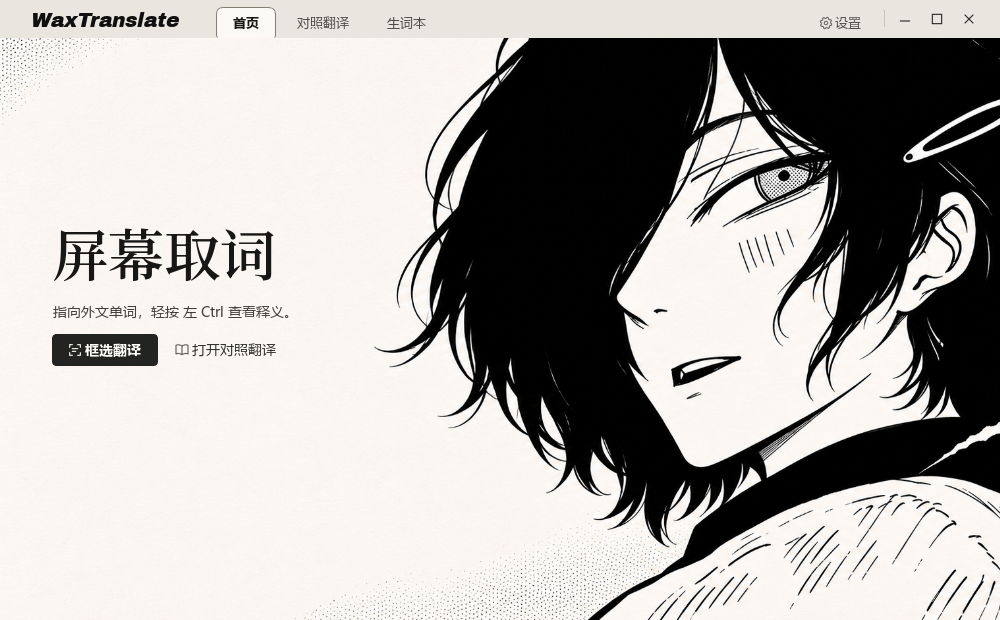
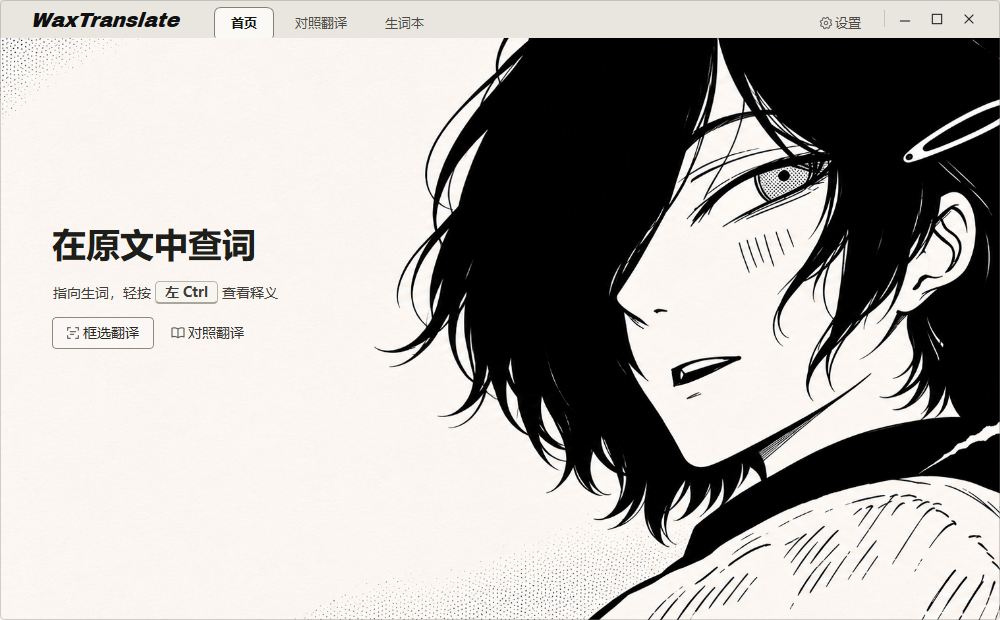
feat(windows): lead the home page with lookup activity and the current gesture (#65)

diff --git a/windows/home.py b/windows/home.py
@@ -2,7 +2,7 @@
 from PySide6.QtCore import QSize, Qt, QTimer, Signal
 from PySide6.QtGui import QColor, QFont, QLinearGradient, QPainter
 from PySide6.QtWidgets import (
-    QAbstractItemView, QAbstractScrollArea, QFrame, QHeaderView, QHBoxLayout, QLabel, QPushButton,
+    QAbstractItemView, QAbstractScrollArea, QFrame, QHeaderView, QHBoxLayout, QLabel, QLayout, QPushButton,
     QTableWidget, QTableWidgetItem, QVBoxLayout, QWidget,
 )
 
@@ -12,16 +12,16 @@ from theme import ui_icon
 
 HOME_STYLE = """
     QWidget#home {background:transparent;}
-    QLabel#coverTitle {font:600 56px 'Noto Serif SC','SimSun','Microsoft YaHei UI'; color:#171715;}
-    QLabel#totalLabel {color:#4d4a45; font-size:14px;}
-    QLabel#activity, QLabel#historyNotice, QLabel#pastActivity {color:#504d48; font-size:13px;}
-    QPushButton#useHint {background:transparent; color:#413f3b; border:1px solid transparent;
-        padding:2px 0; text-align:left; font-size:14px;}
+    QLabel#coverTitle {font:600 34px 'Microsoft YaHei UI'; color:#1d1d1a;}
+    QLabel#activity, QLabel#historyNotice {color:#504d48; font-size:13px;}
+    QPushButton#useHint {background:transparent; border:1px solid transparent; padding:0;}
     QPushButton#useHint:focus, QPushButton#useHint:hover {border-bottom:1px solid #79756e;}
-    QPushButton#region {background:#232321; color:#fffefa; border:1px solid #232321;
-        padding:6px 14px; border-radius:4px; font-size:14px; font-weight:600;}
-    QPushButton#region:hover {background:#40403b;}
-    QPushButton#region:focus {border:2px solid #827f74; padding:5px 13px;}
+    QPushButton#useHint QLabel {color:#403e39; font-size:14px;}
+    QLabel#shortcutKey {background:#f7f5ef; border:1px solid #b8b4aa; border-bottom:2px solid #aaa69c;
+        border-radius:4px; padding:1px 5px; font-weight:600;}
+    QPushButton#region {background:rgba(250,249,246,150); color:#292824; border:1px solid #8d897f;
+        padding:6px 12px; border-radius:4px; font-size:14px;}
+    QPushButton#region:hover, QPushButton#region:focus {background:#efede6; border-color:#494740;}
     QPushButton#readOriginal {background:transparent; color:#34332f; border:1px solid transparent;
         padding:6px 9px; border-radius:4px; font-size:14px;}
     QPushButton#readOriginal:hover, QPushButton#readOriginal:focus {border-color:#928e84;}
@@ -54,26 +54,19 @@ class HomePage(QWidget):
         self.page.setSpacing(0)
         self.page.addStretch(2)
         self.title = QLabel(objectName="coverTitle")
+        self.title.setTextFormat(Qt.RichText)
+        self.title.setWordWrap(True)
         self.page.addWidget(self.title)
-
-        self.metrics = QWidget()
-        metrics = QVBoxLayout(self.metrics)
-        metrics.setContentsMargins(0, 0, 0, 0)
-        metrics.setSpacing(0)
-        metrics.addWidget(QLabel("累计查词", objectName="totalLabel"))
-        self.total = QLabel()
-        self.total.setTextFormat(Qt.RichText)
-        metrics.addWidget(self.total)
         self.activity = QLabel(objectName="activity")
-        self.activity.setContentsMargins(0, 3, 0, 0)
-        metrics.addWidget(self.activity)
-        self.page.addWidget(self.metrics)
+        self.activity.setWordWrap(True)
+        self.activity.setContentsMargins(0, 4, 0, 0)
+        self.page.addWidget(self.activity)
 
         self.sheet = QWidget()
         history = QVBoxLayout(self.sheet)
         history.setContentsMargins(0, 14, 0, 0)
         history.setSpacing(5)
-        history.addWidget(QLabel("最近查词", objectName="recentTitle"))
+        history.addWidget(QLabel("最近查过", objectName="recentTitle"))
         self.table = QTableWidget(0, 3, objectName="recentWords")
         self.table.setAccessibleName("最近查词，从新到旧")
         self.table.setHorizontalHeaderLabels(["词语", "释义", "语种"])
@@ -97,39 +90,45 @@ class HomePage(QWidget):
 
         self.notice = QLabel("正在读取查词记录…", objectName="historyNotice")
         self.page.addWidget(self.notice)
-        self.page.addSpacing(8)
+        self.page.addSpacing(12)
         self.instructions = QPushButton(objectName="useHint")
         self.instructions.setToolTip("更改取词键")
         self.instructions.setCursor(Qt.PointingHandCursor)
         self.instructions.clicked.connect(self.settings_requested)
+        hint = QHBoxLayout(self.instructions)
+        hint.setSizeConstraint(QLayout.SetFixedSize)
+        hint.setSpacing(4)
+        hint.setContentsMargins(1, 3, 1, 3)
+        self.hint_start = QLabel()
+        self.key = QLabel(objectName="shortcutKey")
+        self.hint_end = QLabel("查看释义")
+        for part in (self.hint_start, self.key, self.hint_end):
+            part.setAttribute(Qt.WA_TransparentForMouseEvents)
+            hint.addWidget(part)
         self.page.addWidget(self.instructions, 0, Qt.AlignLeft)
         self.page.addSpacing(10)
         actions = QHBoxLayout()
         actions.setSpacing(6)
-        self.region = QPushButton(ui_icon("region", "#fffefa"), "框选翻译", objectName="region")
+        self.region = QPushButton(ui_icon("region"), "框选翻译", objectName="region")
         self.region.setIconSize(QSize(16, 16))
         self.region.setCursor(Qt.PointingHandCursor)
         self.region.clicked.connect(self.region_requested)
         actions.addWidget(self.region)
-        self.reader = QPushButton(ui_icon("book"), "打开对照翻译", objectName="readOriginal")
+        self.reader = QPushButton(ui_icon("book"), "对照翻译", objectName="readOriginal")
         self.reader.setIconSize(QSize(16, 16))
         self.reader.setCursor(Qt.PointingHandCursor)
         self.reader.clicked.connect(self.reader_requested)
         actions.addWidget(self.reader)
         actions.addStretch()
         self.page.addLayout(actions)
-        self.past_activity = QLabel(objectName="pastActivity")
-        self.past_activity.setContentsMargins(0, 18, 0, 0)
-        self.past_activity.setWordWrap(True)
-        self.past_activity.hide()
-        self.page.addWidget(self.past_activity)
         self.warning = QLabel(objectName="homeWarning")
         self.warning.setWordWrap(True)
         self.warning.hide()
         self.page.addWidget(self.warning)
         self.page.addStretch(3)
         self.rows = []
-        self.metrics.hide()
+        self.title.setText("在原文中查词")
+        self.activity.hide()
         self.sheet.hide()
         self.refresh = QTimer(self, interval=30_000)
         self.refresh.timeout.connect(self.stats_requested)
@@ -138,25 +137,31 @@ class HomePage(QWidget):
 
     def set_mode(self, mode):
         key = {"left": "左 Ctrl", "right": "右 Ctrl"}.get(mode)
-        self.title.setText("屏幕取词" if key else "原文查词")
-        hint = f"指向外文单词，轻按 {key} 查看释义。" if key else "在「对照翻译」中双击单词，即可查看释义。"
-        self.instructions.setText(hint)
-        self.instructions.setAccessibleName(hint + " 点击更改取词键。")
+        self.hint_start.setText("指向生词，轻按" if key else "在对照翻译中双击单词，查看释义")
+        self.key.setText(key or "")
+        self.key.setVisible(bool(key))
+        self.hint_end.setVisible(bool(key))
+        hint = f"{self.hint_start.text()} {key} 查看释义" if key else self.hint_start.text()
+        self.instructions.setAccessibleName(hint + "。更改取词键")
 
     def set_stats(self, snapshot):
         total, today, saved, due, recent = snapshot if snapshot is not None else (0, 0, 0, 0, [])
-        self.metrics.setVisible(bool(recent))
-        self.title.setVisible(not recent)
-        count = f"累计查词 {total:,} 次"
-        self.total.setAccessibleName(count)
-        # A single text line gives the two font sizes a shared typographic baseline.
-        self.total.setText(f"<span style=\"font:600 52px 'Spectral'; color:#171715\">{total:,}</span>"
-                           "&nbsp; <span style=\"font-size:15px; color:#514e48\">次</span>")
-        self.activity.setText(f"今日 {today:,} 次     ·     已收藏 {saved:,}     ·     待复习 {due:,}")
-        past = [label for value, label in ((total, count), (today, f"今日 {today:,} 次"),
-                (saved, f"已收藏 {saved:,}"), (due, f"待复习 {due:,}")) if value]
-        self.past_activity.setText("   ·   ".join(past))
-        self.past_activity.setVisible(bool(past) and not recent)
+        if total:
+            self.title.setText(f'已查词 <span style="font:600 46px \'Spectral\'">{total:,}</span> 次')
+            self.title.setAccessibleName(f"累计查词 {total:,} 次")
+        else:
+            heading = "查词概览" if saved or due or recent else "在原文中查词"
+            self.title.setText(heading)
+            self.title.setAccessibleName(heading)
+        details = []
+        if today or recent:
+            details.append(f"今日 {today:,} 次")
+        if saved:
+            details.append(f"已收藏 {saved:,} 条")
+        if due:
+            details.append(f"待复习 {due:,} 条")
+        self.activity.setText("   ·   ".join(details))
+        self.activity.setVisible(bool(details))
         self.notice.setText("暂时无法读取查词记录" if snapshot is None else "")
         self.notice.setVisible(snapshot is None)
         self.sheet.setVisible(bool(recent))
@@ -200,13 +205,12 @@ class HomePage(QWidget):
         super().paintEvent(event)
         paper = QColor(250, 249, 246)
         if self.portrait:
-            heading = self.title if self.metrics.isHidden() else self.metrics
-            top = heading.y()
+            top = self.title.y()
             wash = QLinearGradient(0, max(0, top - 140), 0, max(1, top + 24))
             stops = ((0, 0), (0.35, 58), (0.75, 197), (1, 237))
         else:
             # The original landscape illustration already leaves paper at the left.
-            if self.metrics.isHidden() and self.width() >= 820 and self.width() > self.height() * 1.55:
+            if not self.rows and self.width() >= 820 and self.width() > self.height() * 1.55:
                 return
             edge = self.column.width()
             wash = QLinearGradient(0, 0, edge + self.width() * 0.19, 0)

diff --git a/windows/check.py b/windows/check.py
@@ -136,7 +136,7 @@ class Checks(unittest.TestCase):
                 self.assertFalse(window.backdrop.isNull())
                 nav = [b for b in window.sidebar.findChildren(QPushButton) if b.property("role") == "nav"]
                 self.assertEqual([b.text() for b in nav], ["首页", "对照翻译", "生词本", "设置"])
-                wait_until(lambda: home.total.accessibleName() == "累计查词 0 次")
+                wait_until(lambda: home.title.accessibleName() == "在原文中查词")
                 for width, height in ((1080, 675), (820, 500), (740, 480), (570, 485), (540, 610), (540, 800)):
                     window.resize(width, height)
                     QApplication.processEvents()
@@ -146,35 +146,33 @@ class Checks(unittest.TestCase):
                         self.assertTrue(window.sidebar.rect().contains(button.geometry()))
                         self.assertGreaterEqual(button.width(), button.sizeHint().width())
                     self.assertGreater(nav[-1].x(), nav[-2].geometry().right())
-                    self.assertFalse(home.metrics.isVisible())
+                    self.assertFalse(home.activity.isVisible())
                     self.assertFalse(home.sheet.isVisible())
                     for control in (home.title, home.instructions, home.region, home.reader):
                         bounds = QRect(control.mapTo(home, QPoint()), control.size())
                         self.assertTrue(home.rect().contains(bounds), (width, height, bounds))
-                    self.assertGreaterEqual(home.instructions.width(), home.instructions.sizeHint().width())
+                    self.assertGreaterEqual(home.instructions.width(), home.instructions.layout().sizeHint().width())
                     self.assertFalse(home.instructions.geometry().intersects(home.region.geometry()))
                     if home.portrait:
                         self.assertGreater(home.title.y(), home.height() // 2)
                 # Migrated profiles and a read failure must not look like a fresh notebook.
                 home.set_stats((17, 0, 2, 1, []))
-                self.assertFalse(home.metrics.isVisible())
                 self.assertTrue(home.title.isVisible())
-                self.assertTrue(home.past_activity.isVisible())
-                self.assertIn("累计查词 17 次", home.past_activity.text())
-                self.assertIn("待复习 1", home.past_activity.text())
+                self.assertEqual(home.title.accessibleName(), "累计查词 17 次")
+                self.assertTrue(home.activity.isVisible())
+                self.assertIn("待复习 1 条", home.activity.text())
                 self.assertFalse(home.sheet.isVisible())
                 self.assertFalse(home.notice.isVisible())
                 home.set_stats((6, 0, 0, 0, []))
-                self.assertEqual(home.past_activity.text(), "累计查词 6 次")
+                self.assertEqual(home.title.accessibleName(), "累计查词 6 次")
+                self.assertFalse(home.activity.isVisible())
                 home.set_stats(None)
                 self.assertIn("无法读取", home.notice.text())
-                self.assertFalse(home.past_activity.isVisible())
-                self.assertFalse(home.metrics.isVisible())
+                self.assertFalse(home.activity.isVisible())
                 rows = [(f"word-{i}", "en", "释义") for i in range(6)]
                 home.set_stats((18, 1, 2, 1, rows))
                 self.assertFalse(home.notice.isVisible())
-                self.assertFalse(home.past_activity.isVisible())
-                self.assertTrue(home.metrics.isVisible())
+                self.assertTrue(home.activity.isVisible())
                 self.assertTrue(home.table.isVisible())
                 self.assertEqual(home.table.rowCount(), 6)
                 for width, height in ((1000, 620), (540, 800), (540, 390)):
@@ -263,7 +261,7 @@ class Checks(unittest.TestCase):
             try:
                 self.assertEqual(first.trigger.currentData(), "left")
                 first.trigger.setCurrentIndex(first.trigger.findData("off"))
-                self.assertIn("双击单词", first.home.instructions.text())
+                self.assertIn("双击单词", first.home.instructions.accessibleName())
             finally:
                 first.shutdown()
                 first.deleteLater()
@@ -285,11 +283,12 @@ class Checks(unittest.TestCase):
             try:
                 window.show()
                 self.assertIs(window.tabs.currentWidget(), home)
-                wait_until(lambda: home.total.accessibleName() == "累计查词 0 次" and home.title.isVisible())
+                wait_until(lambda: home.title.accessibleName() == "在原文中查词" and home.title.isVisible())
                 self.assertFalse(home.notice.isVisible())
                 self.assertFalse(home.sheet.isVisible())
                 self.assertEqual(home.table.rowCount(), 0)
-                self.assertIn("左 Ctrl", home.instructions.text())
+                self.assertEqual(home.key.text(), "左 Ctrl")
+                self.assertTrue(home.key.isVisible())
                 home.reader.click()
                 self.assertIs(window.tabs.currentWidget(), window.reader_page)
                 editor = window.workspace.input
@@ -301,24 +300,24 @@ class Checks(unittest.TestCase):
                 window.card.save.click()
                 window.card.close()
                 window.tabs.setCurrentWidget(home)
-                wait_until(lambda: home.total.accessibleName() == "累计查词 1 次" and home.table.isVisible()
+                wait_until(lambda: home.title.accessibleName() == "累计查词 1 次" and home.table.isVisible()
                            and "已收藏 1" in home.activity.text())
                 self.assertEqual(home.table.item(0, 0).text(), "bank")
                 self.assertIn("岸", home.table.item(0, 1).text())
                 self.assertEqual(home.table.item(0, 2).text(), "英语")
-                self.assertFalse(home.title.isVisible())
+                self.assertTrue(home.title.isVisible())
                 self.assertLessEqual(home.table.height(), home.table.rowHeight(0) + 2)
                 window.open_library()
                 window.library.review.click()
                 window.library.reveal.click()
                 window.library.known.click()
                 window.tabs.setCurrentWidget(home)
-                wait_until(lambda: "待复习 0" in home.activity.text())
+                wait_until(lambda: "已收藏 1 条" in home.activity.text() and "待复习" not in home.activity.text())
                 window.trigger.setCurrentIndex(window.trigger.findData("right"))
-                self.assertIn("右 Ctrl", home.instructions.text())
+                self.assertEqual(home.key.text(), "右 Ctrl")
                 window.trigger.setCurrentIndex(window.trigger.findData("off"))
-                self.assertIn("双击单词", home.instructions.text())
-                self.assertNotIn("Ctrl", home.instructions.text())
+                self.assertIn("双击单词", home.instructions.accessibleName())
+                self.assertFalse(home.key.isVisible())
                 self.assertEqual(editor.toPlainText(), RIVER)
                 with patch.object(window, "begin") as begin:
                     home.region.click()
@@ -1079,7 +1078,7 @@ class Checks(unittest.TestCase):
             sample.hide()
             window.open_home()
             self.assertTrue(QTest.qWaitForWindowExposed(window))
-            wait_until(lambda: window.isActiveWindow() and window.home.total.accessibleName() == "累计查词 2 次")
+            wait_until(lambda: window.isActiveWindow() and window.home.title.accessibleName() == "累计查词 2 次")
             self.assertEqual([window.home.table.item(i, 0).text() for i in range(2)], ["MVP", "bank"])
             self.assertIn("最小可行产品", window.home.table.item(0, 1).text())
             window.trigger.setCurrentIndex(window.trigger.findData("off"))

diff --git a/windows/test_settings.py b/windows/test_settings.py
@@ -53,7 +53,7 @@ class SettingsTests(unittest.TestCase):
         page.trigger.setCurrentIndex(page.trigger.findData("off"))
         page.auto_online.click()
         window.tabs.setCurrentWidget(window.home)
-        self.assertIn("双击单词", window.home.instructions.text())
+        self.assertIn("双击单词", window.home.instructions.accessibleName())
         window.home.instructions.click()
         self.assertIs(window.tabs.currentWidget(), page)
         self.assertIs(window.focusWidget(), page.trigger)

diff --git a/README.md b/README.md
@@ -21,9 +21,9 @@ WaxTranslate 的 macOS 版使用 Vision 在本机识字，使用 Apple 翻译处
 
 在 Windows 11 x64 上完整解压便携包，双击 `WaxTranslate.exe`。程序默认在系统托盘待命，可以直接取词。点击时钟旁的 WaxTranslate 图标（可能在「显示隐藏的图标」里），或再次双击启动器，即可打开主窗口。便携包自带英语、日语和韩语的识字与简体中文翻译模型。要用法语、德语、西班牙语、意大利语、葡萄牙语或俄语，打开「设置 → 语言包」，选中语种并点「下载语言包」。显示「已安装」后即可离线使用，无需重启。下载的资源保存在当前用户目录，升级会复用其中已有的模型。
 
-**鼠标指向单词，轻按一下左 Ctrl。** 在网页、PDF 等窗口即可查看句中词义。按住取词键并用左键拖选可翻译一段，也可在首页点「框选翻译」。点「打开对照翻译」可粘贴文章。首页的一行用法跟随当前取词键，点击这行文字可以更改设置。
+**鼠标指向单词，轻按一下左 Ctrl。** 在网页、PDF 等窗口即可查看句中词义。按住取词键并用左键拖选可翻译一段，也可在首页点「框选翻译」。点「对照翻译」可粘贴文章。首页用一行文字提示当前操作，点击这行可更改取词键。
 
-首次查词后，首页自动显示累计和今日次数、收藏和待复习数量，以及最近查过的六个词和简短释义。同词同语种再次查询会置顶，累计次数加一。框选和整段翻译不计入词数。如果旧版本只留下了查词次数，首页会在翻译入口下方显示这项累计值；下一次取词后就能看到具体词条。
+首次查词后，首页标题显示累计查词次数，下方可查看今日次数、最近查过的六个词和简短释义。有收藏或待复习的词条时，摘要会显示相应数量。同词同语种再次查询会置顶，累计次数加一。框选和整段翻译不计入词数。升级时若只保留了旧计数，标题会沿用该数字，下一次查词后再显示具体词条。
 
 顶栏左侧可以切换「首页」「对照翻译」和「生词本」，右侧齿轮进入「设置」。浅底标签标出当前页。拖动左侧字标或空白处可以移动窗口，双击可最大化或还原，边缘可拖动调整大小。右上角保留最小化、最大化和关闭按钮。普通窗口的内容铺到四边，Windows 11 下保留小圆角。
 
